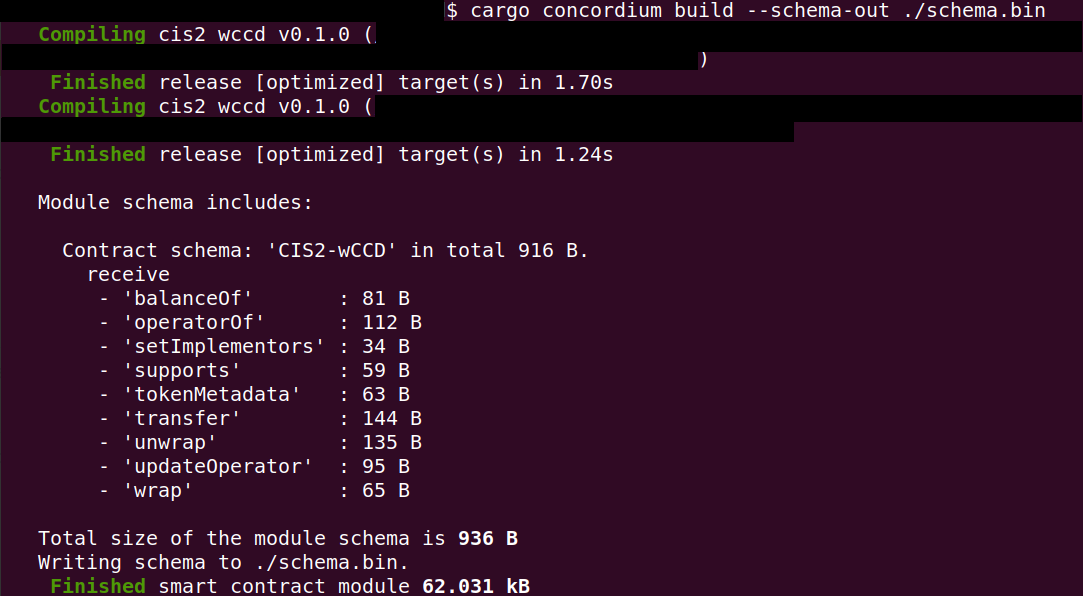
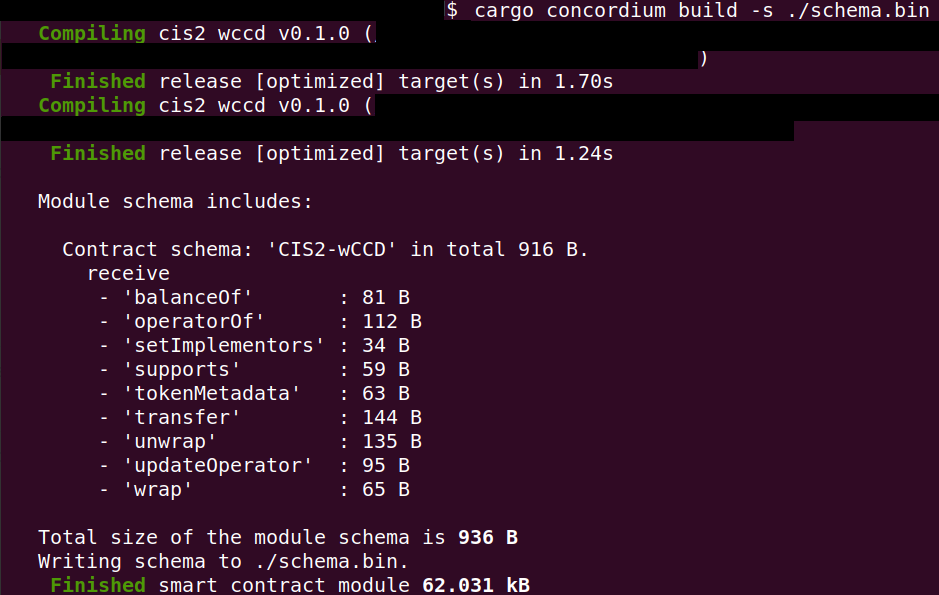
address comments

diff --git a/source/mainnet/smart-contracts/onboarding-guide-ethereum-developers/faq.rst b/source/mainnet/smart-contracts/onboarding-guide-ethereum-developers/faq.rst
@@ -342,6 +342,12 @@ Concordium smart contracts:
 
         $cargo concordium build --schema-out ./schema.bin
 
+    The shorter version of the above command is as follows:
+
+    .. code-block:: console
+
+        $cargo concordium build -s ./schema.bin
+
     .. image:: ./images/onboarding_ethereum_developers_6.png
         :width: 100 %
 
